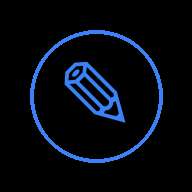
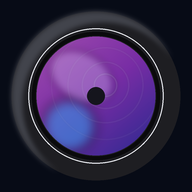
Add files via upload

diff --git a/index.html b/index.html
@@ -9,8 +9,8 @@
 <link rel="apple-touch-icon" href="icon-192.png">
 <meta name="apple-mobile-web-app-capable" content="yes">
 <meta name="apple-mobile-web-app-status-bar-style" content="black-translucent">
-<meta name="apple-mobile-web-app-title" content="Fiche Terrain">
-<title>Fiche Terrain</title>
+<meta name="apple-mobile-web-app-title" content="SnapNote">
+<title>SnapNote</title>
 <style>
   :root{
     --accent:#3b82f6; --accent-lo:#2563eb; --accent-hi:#60a5fa;
@@ -60,6 +60,12 @@
     transition:transform .12s,border-color .2s,box-shadow .2s}
   .mode:active{transform:scale(.97);border-color:var(--stroke-hi)}
   .mode .ic{font-size:36px}
+  .ic-svg{width:38px;height:38px;color:var(--accent-hi);
+    filter:drop-shadow(0 0 10px rgba(96,165,250,.35))}
+  .stage .placeholder .ic-svg{width:46px;height:46px}
+  .ic-btn{width:20px;height:20px;flex:none}
+  .ic-h3{width:16px;height:16px;color:var(--muted);vertical-align:-3px;margin-right:2px}
+  .card h3{display:flex;align-items:center;gap:6px}
   .mode b{display:block;margin-top:10px;font-size:16px}
   .mode span{display:block;margin-top:5px;font-size:12.5px;color:var(--muted)}
   .field-launch{display:flex;flex-direction:column;gap:7px;text-align:left;max-width:380px;margin:0 auto;width:100%}
@@ -128,10 +134,10 @@
   .mic-status{font-size:12.5px;color:var(--muted);min-height:16px}
   .mic-status.live{color:var(--accent-hi)}
   .mic-status.err{color:var(--danger)}
-  footer{flex:none;display:flex;gap:10px;padding:11px 16px;
+  footer{flex:none;display:flex;gap:8px;padding:7px 12px;
     background:var(--glass);backdrop-filter:blur(var(--blur));-webkit-backdrop-filter:blur(var(--blur));
     border-top:1px solid var(--stroke)}
-  footer .btn{flex:1;font-size:14px;padding:0 8px}
+  footer .btn{flex:1;min-height:40px;font-size:13px;padding:0 6px;border-radius:11px}
   .toast{position:fixed;left:50%;bottom:84px;transform:translateX(-50%) translateY(20px);
     background:rgba(10,16,32,.7);backdrop-filter:blur(14px);-webkit-backdrop-filter:blur(14px);
     border:1px solid var(--stroke);color:#fff;padding:12px 20px;border-radius:24px;font-size:13.5px;
@@ -192,13 +198,66 @@
 </style>
 </head>
 <body>
+<svg width="0" height="0" style="position:absolute" aria-hidden="true">
+  <symbol id="ic-cam" viewBox="0 0 24 24">
+    <rect x="2.5" y="6.5" width="19" height="13" rx="3.2" fill="none" stroke="currentColor" stroke-width="1.6"/>
+    <path d="M8.5 6.5 l1.2-2.2 a1 1 0 0 1 .9-.5 h2.8 a1 1 0 0 1 .9.5 l1.2 2.2" fill="none" stroke="currentColor" stroke-width="1.6" stroke-linejoin="round"/>
+    <circle cx="12" cy="13" r="3.6" fill="none" stroke="currentColor" stroke-width="1.6"/>
+    <circle cx="12" cy="13" r="1.3" fill="currentColor"/>
+  </symbol>
+  <symbol id="ic-stack" viewBox="0 0 24 24">
+    <rect x="8" y="2.6" width="13.4" height="10.4" rx="2" fill="none" stroke="currentColor" stroke-width="1.5" opacity=".55"/>
+    <rect x="5.3" y="5.3" width="13.4" height="10.4" rx="2" fill="none" stroke="currentColor" stroke-width="1.5" opacity=".8"/>
+    <rect x="2.6" y="8" width="13.4" height="10.4" rx="2" fill="none" stroke="currentColor" stroke-width="1.5"/>
+    <circle cx="6.4" cy="11.6" r="1.35" fill="currentColor"/>
+    <path d="M3.2 17.4 l3.4-3.4 a1 1 0 0 1 1.4 0 l2 2 l2.3-2.5 a1 1 0 0 1 1.45 0 l1.6 1.7"
+      fill="none" stroke="currentColor" stroke-width="1.5" stroke-linecap="round" stroke-linejoin="round"/>
+  </symbol>
+  <symbol id="ic-note" viewBox="0 0 24 24">
+    <path d="M4 4.5 A1.5 1.5 0 0 1 5.5 3 H14 l6 6 v10.5 A1.5 1.5 0 0 1 18.5 21 h-13 A1.5 1.5 0 0 1 4 19.5 Z"
+      fill="none" stroke="currentColor" stroke-width="1.5" stroke-linejoin="round"/>
+    <path d="M14 3 v5 a1 1 0 0 0 1 1 h5" fill="none" stroke="currentColor" stroke-width="1.5" stroke-linejoin="round"/>
+    <path d="M7.5 12.5 h7 M7.5 15.5 h7 M7.5 18 h4" stroke="currentColor" stroke-width="1.5" stroke-linecap="round"/>
+  </symbol>
+  <symbol id="ic-mic" viewBox="0 0 24 24">
+    <rect x="9" y="2.5" width="6" height="11" rx="3" fill="none" stroke="currentColor" stroke-width="1.6"/>
+    <path d="M5.5 11 a6.5 6.5 0 0 0 13 0" fill="none" stroke="currentColor" stroke-width="1.6" stroke-linecap="round"/>
+    <path d="M12 17.5 v3.5 M8.5 21 h7" fill="none" stroke="currentColor" stroke-width="1.6" stroke-linecap="round"/>
+  </symbol>
+</svg>
 <div class="bg-grad"></div>
 <div class="bg-blobs"><i></i><i></i><i></i></div>
 <div id="boot"></div>
 
 <header>
-  <span class="logo">✎</span>
-  <h1>Fiche Terrain</h1>
+  <span class="logo" aria-hidden="true">
+    <svg viewBox="0 0 32 32" width="27" height="27">
+      <defs>
+        <linearGradient id="lensG" x1="80%" y1="12%" x2="20%" y2="90%">
+          <stop offset="0%" stop-color="#b05cc8"/>
+          <stop offset="45%" stop-color="#7a3aa8"/>
+          <stop offset="72%" stop-color="#2b3fa0"/>
+          <stop offset="100%" stop-color="#2f7fd0"/>
+        </linearGradient>
+        <radialGradient id="lensGlow" cx="60%" cy="40%" r="60%">
+          <stop offset="0%" stop-color="#e6dcff" stop-opacity=".55"/>
+          <stop offset="60%" stop-color="#e6dcff" stop-opacity="0"/>
+        </radialGradient>
+      </defs>
+      <circle cx="16" cy="16" r="15" fill="#26262b"/>
+      <circle cx="16" cy="16" r="12.4" fill="none" stroke="#eef0f6" stroke-width=".7"/>
+      <circle cx="16" cy="16" r="11.6" fill="none" stroke="#0c0c0e" stroke-width="1.4"/>
+      <circle cx="16" cy="16" r="10.6" fill="url(#lensG)"/>
+      <circle cx="16" cy="16" r="10.6" fill="url(#lensGlow)"/>
+      <g fill="none" stroke="#dcd2ff" stroke-opacity=".28" stroke-width=".5">
+        <circle cx="17.4" cy="14.6" r="8"/>
+        <circle cx="17.4" cy="14.6" r="5.2"/>
+        <circle cx="17.4" cy="14.6" r="2.8"/>
+      </g>
+      <circle cx="16" cy="16" r="1.7" fill="#0a0a16"/>
+    </svg>
+  </span>
+  <h1>SnapNote</h1>
   <span class="ref" id="refLabel"></span>
   <button class="cog" id="btnSettings" aria-label="Réglages">⚙</button>
 </header>
@@ -215,10 +274,10 @@
     </div>
     <div class="modes">
       <div class="mode" data-mode="single">
-        <div class="ic">📷</div><b>1 photo</b><span>Une seule prise à annoter</span>
+        <div class="ic"><svg class="ic-svg"><use href="#ic-cam"/></svg></div><b>1 photo</b><span>Une seule prise à annoter</span>
       </div>
       <div class="mode" data-mode="multi">
-        <div class="ic">🗂</div><b>Multi-photos</b><span>Plusieurs prises par intervention</span>
+        <div class="ic"><svg class="ic-svg"><use href="#ic-stack"/></svg></div><b>Multi-photos</b><span>Plusieurs prises par intervention</span>
       </div>
     </div>
   </div>
@@ -246,18 +305,18 @@
     </div>
     <div class="stage empty" id="stage">
       <div class="placeholder" id="placeholder">
-        <div class="ic">📷</div><p>Prends une photo pour commencer</p>
+        <div class="ic"><svg class="ic-svg"><use href="#ic-cam"/></svg></div><p>Prends une photo pour commencer</p>
       </div>
       <canvas id="canvas" class="hidden"></canvas>
     </div>
     <div class="row">
-      <button class="btn accent" id="btnPhoto">📷 <span id="photoLabel">Prendre la photo</span></button>
+      <button class="btn accent" id="btnPhoto"><svg class="ic-btn"><use href="#ic-cam"/></svg> <span id="photoLabel">Prendre la photo</span></button>
     </div>
     <div class="card">
-      <h3>📝 Notes</h3>
+      <h3><svg class="ic-h3"><use href="#ic-note"/></svg> Notes</h3>
       <textarea id="notes" placeholder="Tape ici, ou dicte avec le micro…"></textarea>
       <div class="row">
-        <button class="btn mic" id="btnMic">🎤 Dicter</button>
+        <button class="btn mic" id="btnMic"><svg class="ic-btn"><use href="#ic-mic"/></svg> Dicter</button>
         <button class="btn" id="btnClearNotes">Effacer</button>
       </div>
       <div class="mic-status" id="micStatus"></div>
@@ -311,7 +370,7 @@
     </div>
 
     <div class="setting toggle">
-      <div><label>Emplacement (GPS)</label><span class="hint">Coordonnées + lien Maps, et adresse si réseau</span></div>
+      <div><label>Adresse en bas de page</label><span class="hint">N° rue, code postal et ville (nécessite le réseau)</span></div>
       <button class="switch" id="tglGeo" role="switch" aria-checked="false"><i></i></button>
     </div>
     <div class="geo-status" id="geoStatus"></div>
@@ -379,18 +438,19 @@ try{
   function captureGeo(){
     var st=$("geoStatus");
     if(!navigator.geolocation){st.className="geo-status err";st.textContent="Géoloc non supportée par ce navigateur.";return;}
-    st.className="geo-status";st.textContent="Localisation en cours…";
+    st.className="geo-status";st.textContent="Recherche de l'adresse…";
     navigator.geolocation.getCurrentPosition(function(p){
-      geo={lat:p.coords.latitude,lng:p.coords.longitude,addr:""};
-      st.className="geo-status ok";
-      st.textContent="Position : "+geo.lat.toFixed(5)+", "+geo.lng.toFixed(5)+" — recherche adresse…";
-      // Géocodage inverse (nécessite réseau) — best effort
-      fetch("https://nominatim.openstreetmap.org/reverse?format=jsonv2&lat="+geo.lat+"&lon="+geo.lng+"&zoom=18&accept-language=fr")
+      var lat=p.coords.latitude,lng=p.coords.longitude;geo={addr:""};
+      fetch("https://nominatim.openstreetmap.org/reverse?format=jsonv2&lat="+lat+"&lon="+lng+"&zoom=18&addressdetails=1&accept-language=fr")
         .then(function(r){return r.json();})
-        .then(function(d){if(d&&d.display_name){geo.addr=d.display_name;
-          st.textContent="Position : "+geo.addr;}else{
-          st.textContent="Position : "+geo.lat.toFixed(5)+", "+geo.lng.toFixed(5)+" (adresse indisponible)";}})
-        .catch(function(){st.textContent="Position : "+geo.lat.toFixed(5)+", "+geo.lng.toFixed(5)+" (adresse : pas de réseau)";});
+        .then(function(d){var a=(d&&d.address)||{};
+          var rue=[a.house_number,a.road||a.pedestrian||a.footway].filter(Boolean).join(" ");
+          var ville=[a.postcode,a.city||a.town||a.village||a.municipality].filter(Boolean).join(" ");
+          geo.addr=[rue,ville].filter(Boolean).join(", ");
+          if(geo.addr){st.className="geo-status ok";st.textContent="Adresse : "+geo.addr;}
+          else{st.className="geo-status err";st.textContent="Adresse introuvable à cette position.";}})
+        .catch(function(){st.className="geo-status err";
+          st.textContent="Pas de réseau : adresse indisponible pour l'instant.";});
     },function(err){st.className="geo-status err";
       st.textContent=err.code===1?"Localisation refusée — autorise-la dans les réglages du site.":"Position indisponible.";
     },{enableHighAccuracy:true,timeout:12000,maximumAge:60000});
@@ -550,7 +610,7 @@ try{
     rec.onerror=function(e){micStatus.className="mic-status err";
       micStatus.textContent=e.error==="network"?"Pas de réseau : dictée indisponible.":
         e.error==="not-allowed"?"Micro refusé : autorise-le dans les réglages du site.":"Erreur dictée : "+e.error;};
-    rec.onend=function(){listening=false;$("btnMic").classList.remove("rec");$("btnMic").innerHTML="🎤 Dicter";
+    rec.onend=function(){listening=false;$("btnMic").classList.remove("rec");$("btnMic").innerHTML='<svg class="ic-btn"><use href="#ic-mic"/></svg> Dicter';
       if(!micStatus.classList.contains("err")){micStatus.className="mic-status";micStatus.textContent="";}};
     try{rec.start();}catch(_){}
   });
@@ -574,12 +634,9 @@ try{
         if(octx.measureText(test).width>W-2*pad){lines.push(cur);cur=words[i];}else cur=test;}
       if(cur)lines.push(cur);}
 
-    // Bloc emplacement (sous les notes)
+    // Bloc adresse (sous les notes)
     var geoLines=[];
-    if(CFG.showGeo&&geo){
-      geoLines.push("📍 "+geo.lat.toFixed(5)+", "+geo.lng.toFixed(5));
-      if(geo.addr)geoLines.push(geo.addr);
-    }
+    if(CFG.showGeo&&geo&&geo.addr){geoLines.push(geo.addr);}
 
     // En-tête : réf (gauche) + date/heure (droite) si activée
     var dateStr=CFG.showDate?fmtDateTime():"";

diff --git a/sw.js b/sw.js
@@ -1,5 +1,5 @@
 "use strict";
-var CACHE = "fiche-terrain-v2";
+var CACHE = "fiche-terrain-v5";
 var ASSETS = [
   ".",
   "index.html",
